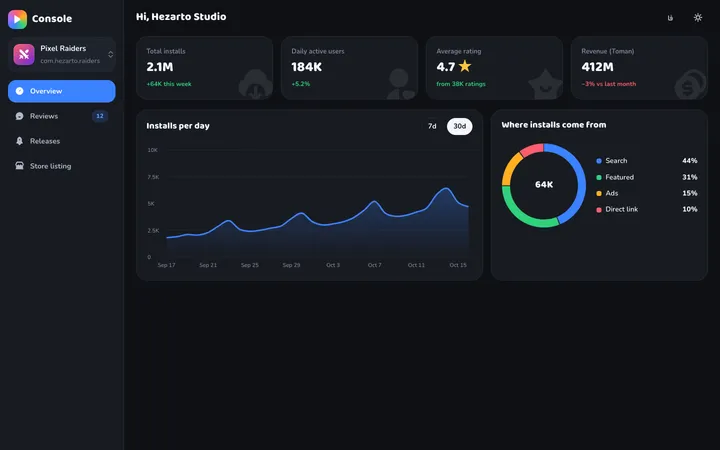
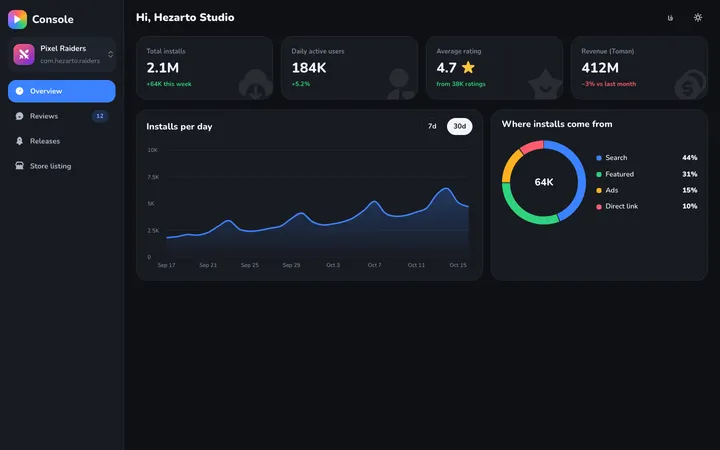
Shelf: drop Baloo Bhaijaan, Vazirmatn only for Persian
Display headings now use Nunito 900 in English and Vazirmatn in Persian;
the Google Fonts link loads Nunito and Vazirmatn only. SKILL.md and
meta.json updated, Shelf screenshots refreshed.

diff --git a/skills/shelf/examples/site.html b/skills/shelf/examples/site.html
@@ -6,7 +6,7 @@
 <title data-alt="Playbox — games and apps for every day">پلیباکس — بازی و برنامه برای هر روز</title>
 <link rel="preconnect" href="https://fonts.googleapis.com">
 <link rel="preconnect" href="https://fonts.gstatic.com" crossorigin>
-<link rel="stylesheet" href="https://fonts.googleapis.com/css2?family=Baloo+Bhaijaan+2:wght@500;600;700;800&family=Nunito:wght@500;600;700;800&family=Vazirmatn:wght@100..900&display=swap">
+<link rel="stylesheet" href="https://fonts.googleapis.com/css2?family=Nunito:wght@500;600;700;800;900&family=Vazirmatn:wght@100..900&display=swap">
 <link rel="stylesheet" href="https://cdn.jsdelivr.net/npm/remixicon@4.6.0/fonts/remixicon.css">
 <link rel="stylesheet" href="../assets/tokens.css">
 <link rel="stylesheet" href="../assets/kit.css">

diff --git a/skills/shelf/assets/tokens.css b/skills/shelf/assets/tokens.css
@@ -48,7 +48,7 @@
   --chart-donut: 16;
 
   --font-sans: "Nunito", "Vazirmatn", system-ui, sans-serif;
-  --font-display: "Baloo Bhaijaan 2", "Nunito", "Vazirmatn", sans-serif;
+  --font-display: "Nunito", "Vazirmatn", system-ui, sans-serif;
   --font-mono: ui-monospace, Menlo, "Vazirmatn", monospace;
   --fs-xs: 12px;
   --fs-sm: 13.5px;
@@ -61,7 +61,7 @@
   --fw-regular: 500;
   --fw-medium: 600;
   --fw-bold: 700;
-  --fw-display: 800;
+  --fw-display: 900;
   --lh-tight: 1.15;
   --lh-snug: 1.35;
   --lh-body: 1.6;
@@ -128,7 +128,7 @@
 
 :root:lang(fa) {
   --font-sans: "Vazirmatn", "Nunito", Tahoma, sans-serif;
-  --font-display: "Vazirmatn", "Baloo Bhaijaan 2", sans-serif;
+  --font-display: "Vazirmatn", "Nunito", Tahoma, sans-serif;
   --fw-regular: 400;
   --fw-medium: 500;
   --lh-tight: 1.45;

diff --git a/skills/shelf/examples/dashboard.html b/skills/shelf/examples/dashboard.html
@@ -6,7 +6,7 @@
 <title data-alt="Playbox developer console">کنسول توسعهدهندگان پلیباکس</title>
 <link rel="preconnect" href="https://fonts.googleapis.com">
 <link rel="preconnect" href="https://fonts.gstatic.com" crossorigin>
-<link rel="stylesheet" href="https://fonts.googleapis.com/css2?family=Baloo+Bhaijaan+2:wght@500;600;700;800&family=Nunito:wght@500;600;700;800&family=Vazirmatn:wght@100..900&display=swap">
+<link rel="stylesheet" href="https://fonts.googleapis.com/css2?family=Nunito:wght@500;600;700;800;900&family=Vazirmatn:wght@100..900&display=swap">
 <link rel="stylesheet" href="https://cdn.jsdelivr.net/npm/remixicon@4.6.0/fonts/remixicon.css">
 <link rel="stylesheet" href="../assets/tokens.css">
 <link rel="stylesheet" href="../assets/kit.css">

diff --git a/skills/shelf/SKILL.md b/skills/shelf/SKILL.md
@@ -26,10 +26,10 @@ Covers the **storefront** (banners, chips, shelves, charts, collections, item sh
 ## Fonts
 
 ```html
-<link rel="stylesheet" href="https://fonts.googleapis.com/css2?family=Baloo+Bhaijaan+2:wght@500;600;700;800&family=Nunito:wght@500;600;700;800&family=Vazirmatn:wght@100..900&display=swap">
+<link rel="stylesheet" href="https://fonts.googleapis.com/css2?family=Nunito:wght@500;600;700;800;900&family=Vazirmatn:wght@100..900&display=swap">
 ```
-Headings: **Baloo Bhaijaan 2** (rounded) for Latin. Body: **Nunito**. Persian: **Vazirmatn** for everything.
-Weights lean bold (600–800). Persian headings use **Vazirmatn 800** (Vazirmatn only for Persian). Fallbacks: Fredoka / Quicksand.
+Latin: **Nunito** (rounded) for everything; display headings at 900, section titles at 800. Persian: **Vazirmatn** for everything.
+Weights lean bold (600–900). Persian headings use **Vazirmatn 800–900** (Vazirmatn only for Persian, no other Persian font). Latin fallbacks: Fredoka / Quicksand.
 
 ## Identity rules (non-negotiable)
 
@@ -91,7 +91,7 @@ Type 12 / 13.5 / 15 / 18 / 22 / 28 / 38; display `clamp(30px, 4.4vw, 52px)`. Con
 ## Persian & RTL
 
 - Persian source copy, casual and warm ("همین حالا بازی کن"); English mirrors.
-- Baloo Bhaijaan 2 for Persian headings (rounded Naskh-Kufi feel) + Vazirmatn body at 15px / 1.9.
+- Vazirmatn for all Persian text: headings at 800–900 for the chunky, playful feel; body at 15px / 1.9.
 - Shelves scroll from the right in RTL; prev/next and "See all" chevrons use `.flip-rtl` (handled by kit.js direction logic).
 - Package ids, versions and sizes stay LTR; ratings and counts use Persian digits.
 
